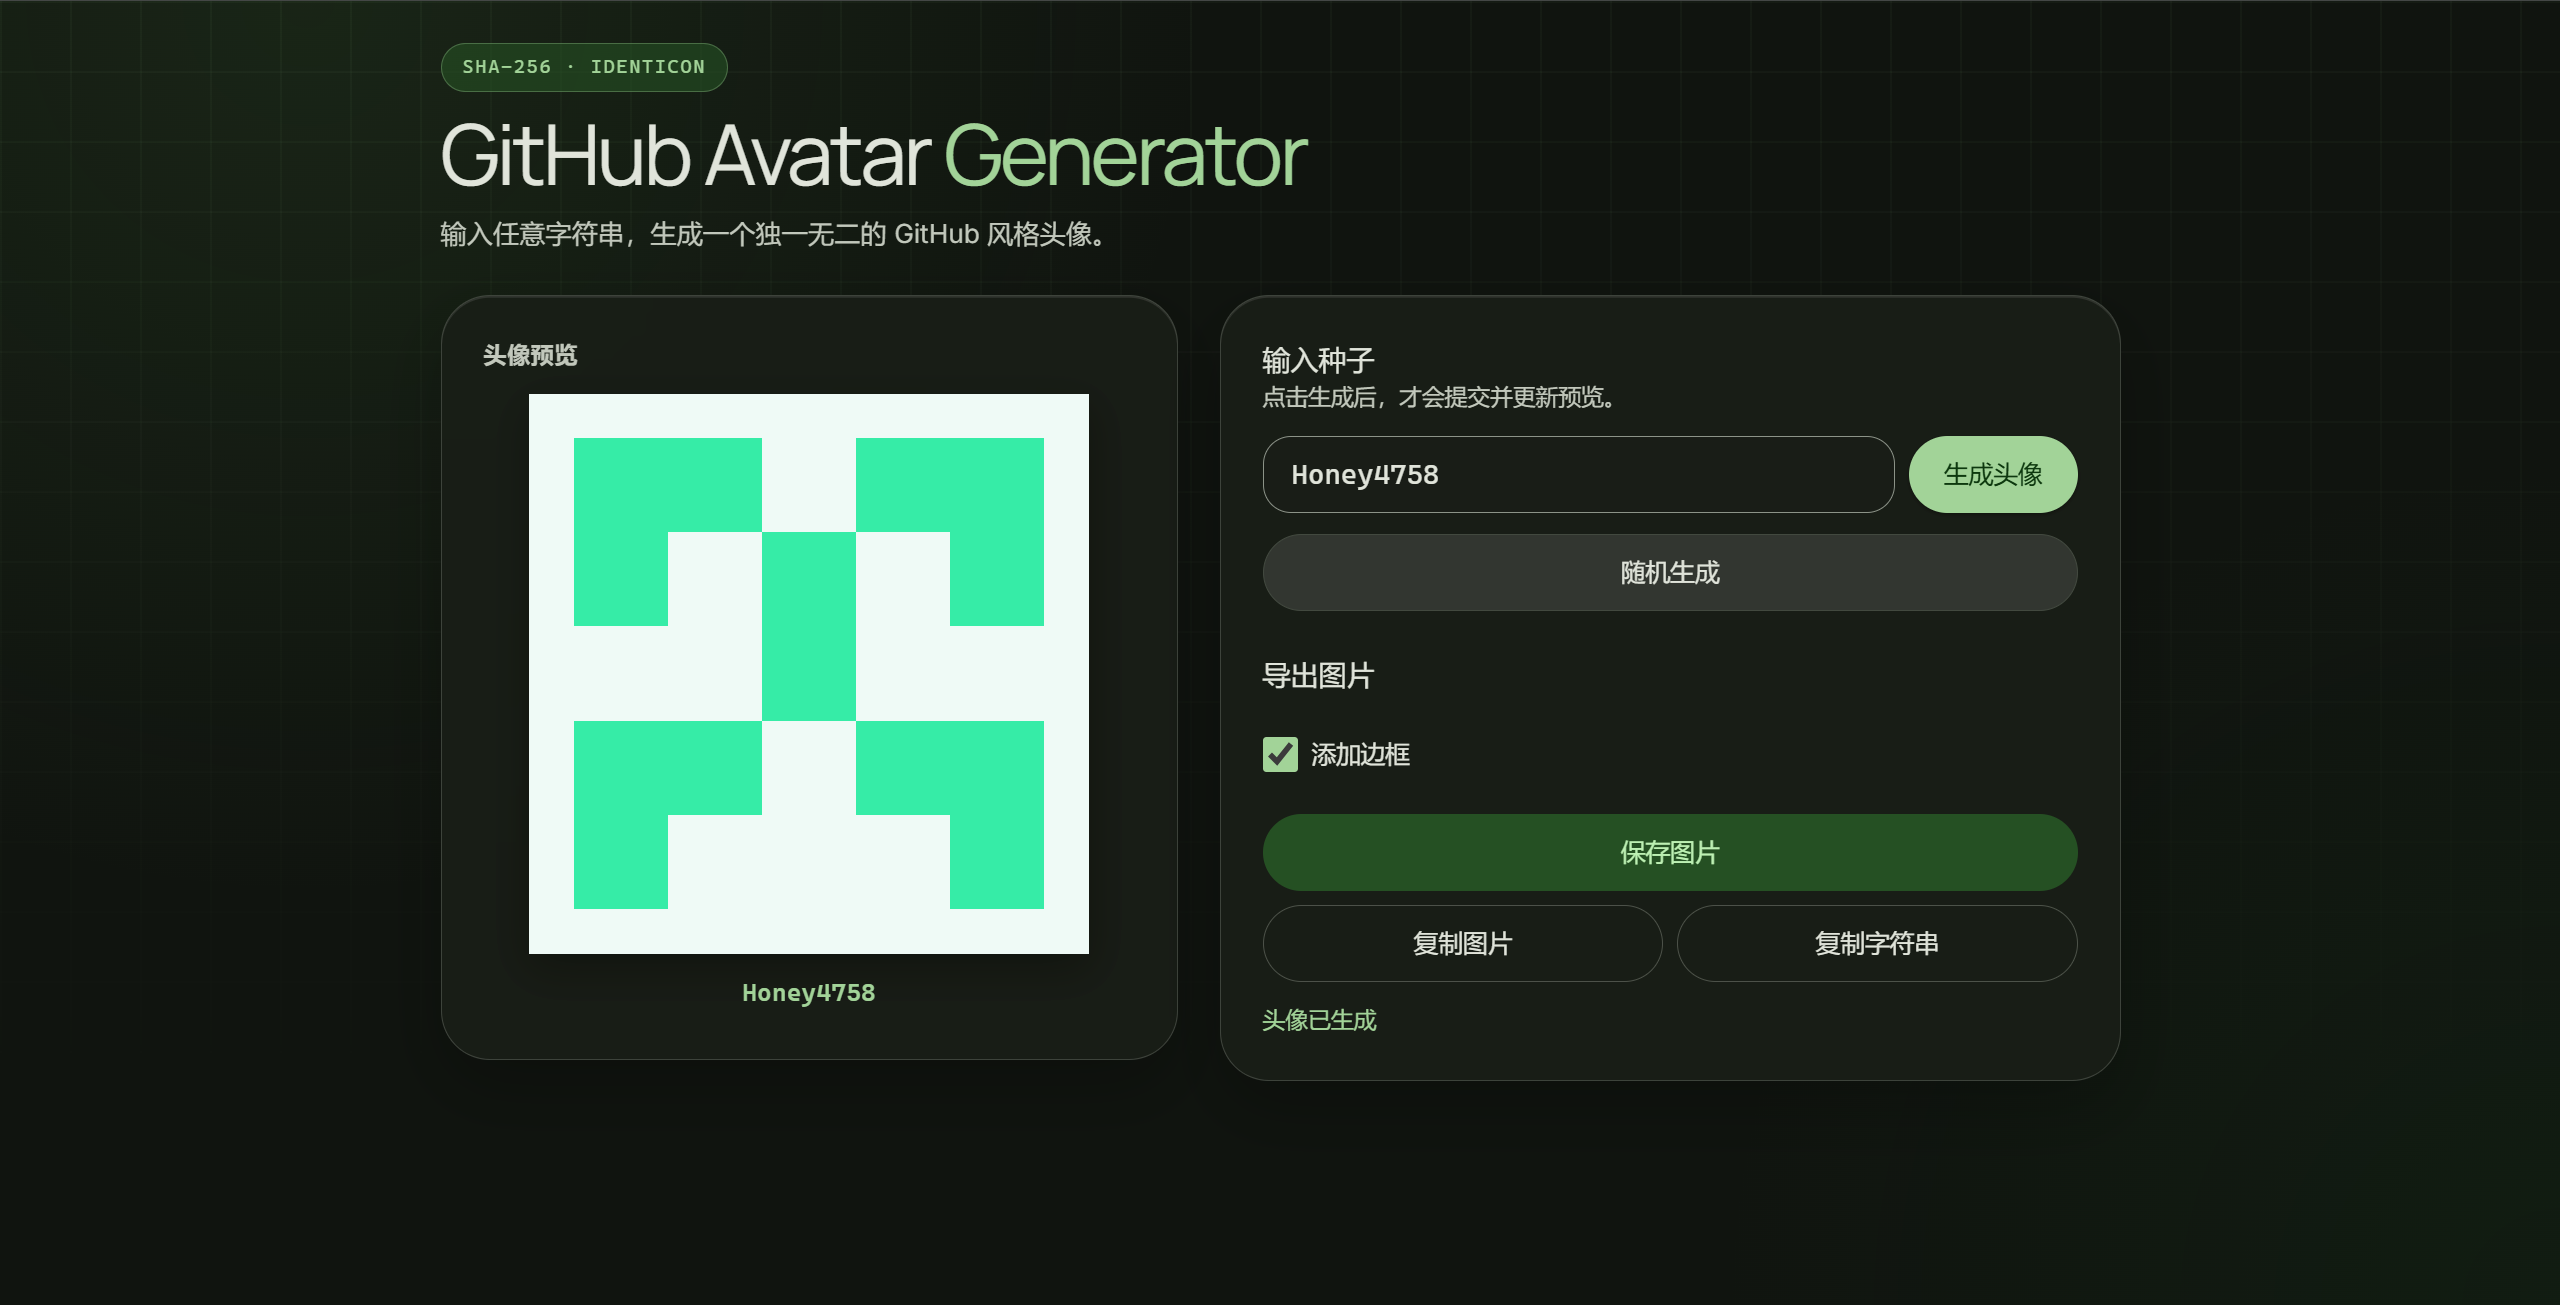
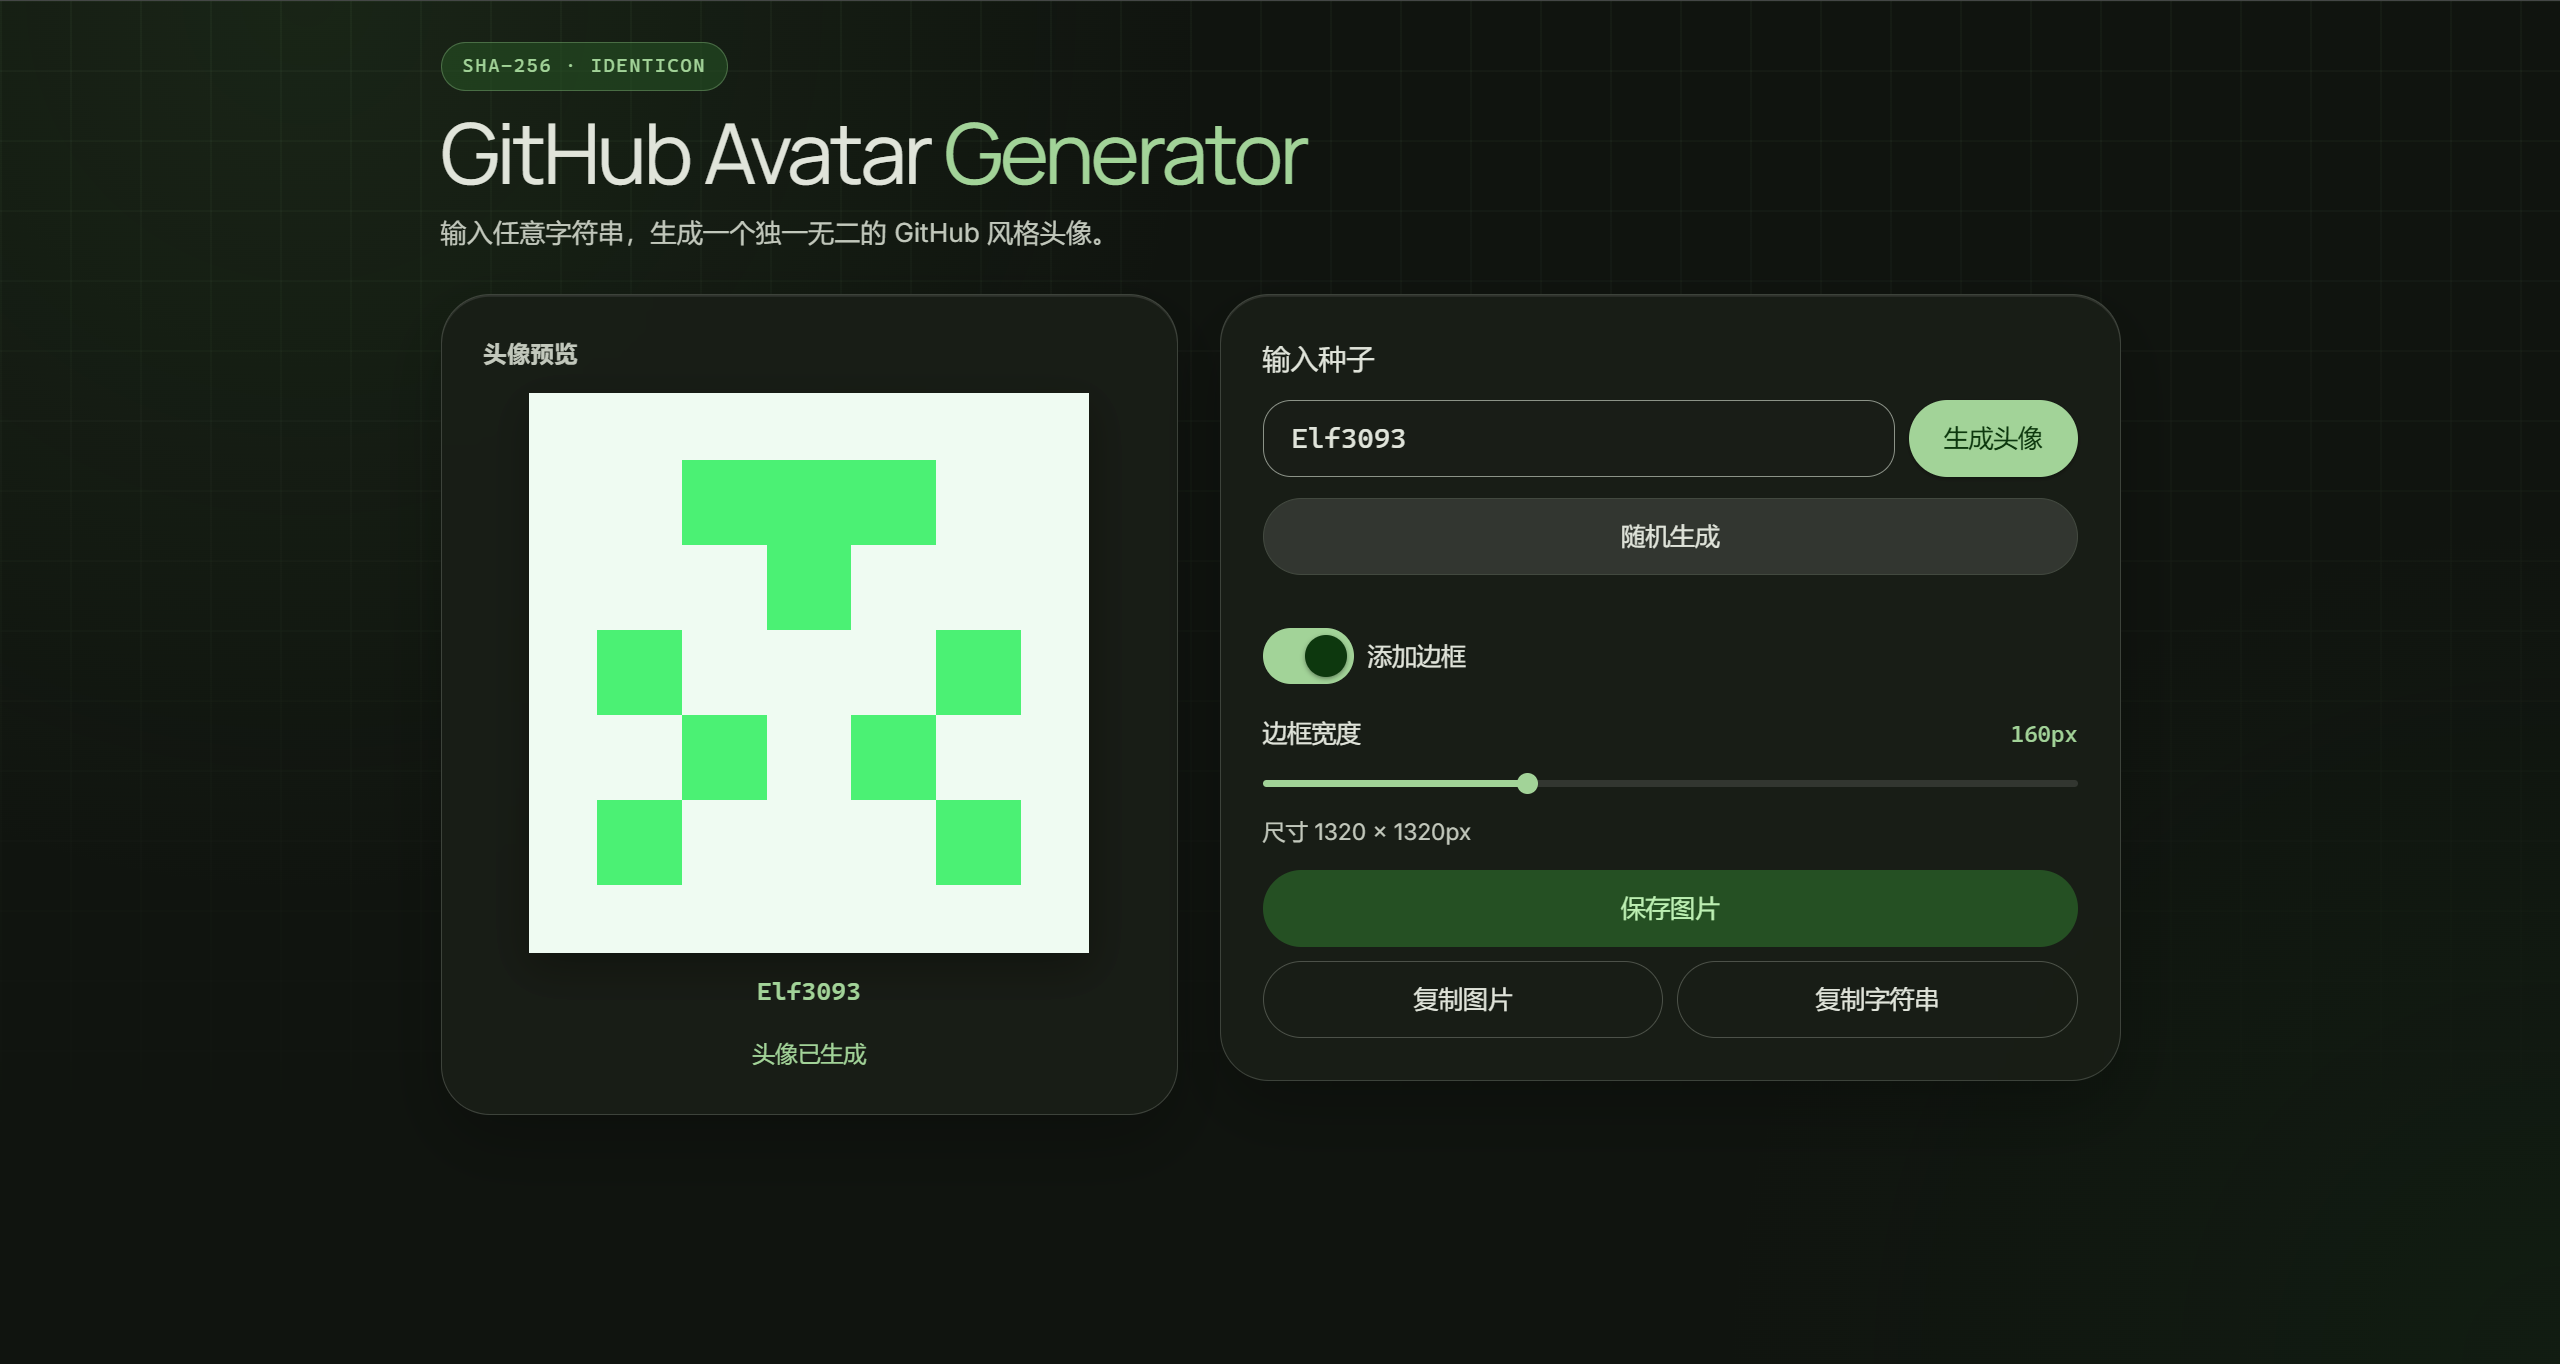
docs: split the README sections out into docs/
The README now carries only the banner, the badges and the live demo link;
each section below it lives in its own file under docs/ and is linked from a
Docs list. Section bodies are unchanged apart from the heading level, which
drops from h2 to h1 now that each one leads its own document.

diff --git a/index.html b/index.html
@@ -39,6 +39,8 @@
           </div>
         </div>
         <p class="name-label" id="nameLabel">尚未生成</p>
+
+        <p class="status" id="status" role="status" aria-live="polite" aria-atomic="true">正在生成…</p>
       </figure>
 
       <section class="panel controls-panel" aria-label="头像生成与导出控制">
@@ -97,7 +99,7 @@
               <span class="btn-label">复制字符串</span>
             </button>
           </div>
-          <p class="status" id="status" role="status" aria-live="polite" aria-atomic="true">正在生成…</p>
+
         </section>
       </section>
     </div>

diff --git a/README.md b/README.md
@@ -17,47 +17,10 @@ _Generate GitHub-style identicons from any string_
 
 [https://tuning-luna.github.io/github-avatar-generator/](https://tuning-luna.github.io/github-avatar-generator/)
 
-## Features | 特性
+## Docs | 文档
 
-- **SHA-256 Based** - Deterministic, unique avatar for any input
-- **1000 x 1000px HD Output** - High-resolution PNG source canvas
-- **Adjustable Border** - Add a background-colored border and set its width with a slider (0-500px), previewed live before saving
-- **Explicit Preview** - Edit a seed, then press Generate or Enter to commit it
-- **Random Generator** - Quick random name with number suffix
-- **Responsive** - Works with keyboard, mobile widths, and short landscape viewports
-- **Accessible feedback** - Labeled input, named canvas, and visible status messages
-
-## Run locally | 本地运行
-
-This is a zero-build vanilla ES module app. No package installation is required for the app itself. Serve the repository from a local HTTP server so Web Crypto and module loading work:
-
-```sh
-npx serve .
-```
-
-Then open the printed localhost URL. VS Code Live Server also works. Do not open `index.html` with `file://`.
-
-## Verify | 验证
-
-Run the dependency-free Node regression tests with Node 20 or newer:
-
-```sh
-node --test tests/*.test.mjs
-```
-
-The tests cover hashing, color conversion, deterministic mirrored rendering, Unicode/empty seeds, and the shared export-canvas dimensions. Browser-only behavior (clipboard permissions, downloads, responsive layout) should be checked from a localhost server.
-
-## How It Works | 工作原理
-
-1. **Input** -> Trim the submitted string; the renderer lowercases it for hashing
-2. **Hash** -> Compute SHA-256
-3. **Color** -> Extract HSL from the hash and convert it to RGB
-4. **Pattern** -> Use hash bits to determine 5 x 5 mirrored grid cells
-5. **Render** -> Draw on an HTML5 canvas at 1000 x 1000 resolution
-6. **Export** -> Download or copy a PNG with an optional matching-color border of any width from 0 to 500px per side (1000 x 1000px up to 2000 x 2000px)
-
-The rendering algorithm lives in `core/`. UI state and browser actions live in `ui/`; the app does not import or depend on the supplied `design-system/` directory.
-
-## License
-
-See `LICENSE` for project licensing details.
+- [Features | 特性](./docs/features.md)
+- [Run locally | 本地运行](./docs/run-locally.md)
+- [Verify | 验证](./docs/verify.md)
+- [How It Works | 工作原理](./docs/how-it-works.md)
+- [License](./docs/license.md)

diff --git a/docs/how-it-works.md b/docs/how-it-works.md
@@ -1,0 +1,10 @@
+# How It Works | 工作原理
+
+1. **Input** -> Trim the submitted string; the renderer lowercases it for hashing
+2. **Hash** -> Compute SHA-256
+3. **Color** -> Extract HSL from the hash and convert it to RGB
+4. **Pattern** -> Use hash bits to determine 5 x 5 mirrored grid cells
+5. **Render** -> Draw on an HTML5 canvas at 1000 x 1000 resolution
+6. **Export** -> Download or copy a PNG with an optional matching-color border of any width from 0 to 500px per side (1000 x 1000px up to 2000 x 2000px)
+
+The rendering algorithm lives in `core/`. UI state and browser actions live in `ui/`; the app does not import or depend on the supplied `design-system/` directory.

diff --git a/docs/features.md b/docs/features.md
@@ -1,0 +1,9 @@
+# Features | 特性
+
+- **SHA-256 Based** - Deterministic, unique avatar for any input
+- **1000 x 1000px HD Output** - High-resolution PNG source canvas
+- **Adjustable Border** - Add a background-colored border and set its width with a slider (0-500px), previewed live before saving
+- **Explicit Preview** - Edit a seed, then press Generate or Enter to commit it
+- **Random Generator** - Quick random name with number suffix
+- **Responsive** - Works with keyboard, mobile widths, and short landscape viewports
+- **Accessible feedback** - Labeled input, named canvas, and visible status messages

diff --git a/docs/verify.md b/docs/verify.md
@@ -1,0 +1,9 @@
+# Verify | 验证
+
+Run the dependency-free Node regression tests with Node 20 or newer:
+
+```sh
+node --test tests/*.test.mjs
+```
+
+The tests cover hashing, color conversion, deterministic mirrored rendering, Unicode/empty seeds, and the shared export-canvas dimensions. Browser-only behavior (clipboard permissions, downloads, responsive layout) should be checked from a localhost server.

diff --git a/docs/run-locally.md b/docs/run-locally.md
@@ -1,0 +1,9 @@
+# Run locally | 本地运行
+
+This is a zero-build vanilla ES module app. No package installation is required for the app itself. Serve the repository from a local HTTP server so Web Crypto and module loading work:
+
+```sh
+npx serve .
+```
+
+Then open the printed localhost URL. VS Code Live Server also works. Do not open `index.html` with `file://`.

diff --git a/docs/license.md b/docs/license.md
@@ -1,0 +1,3 @@
+# License
+
+See `LICENSE` for project licensing details.
